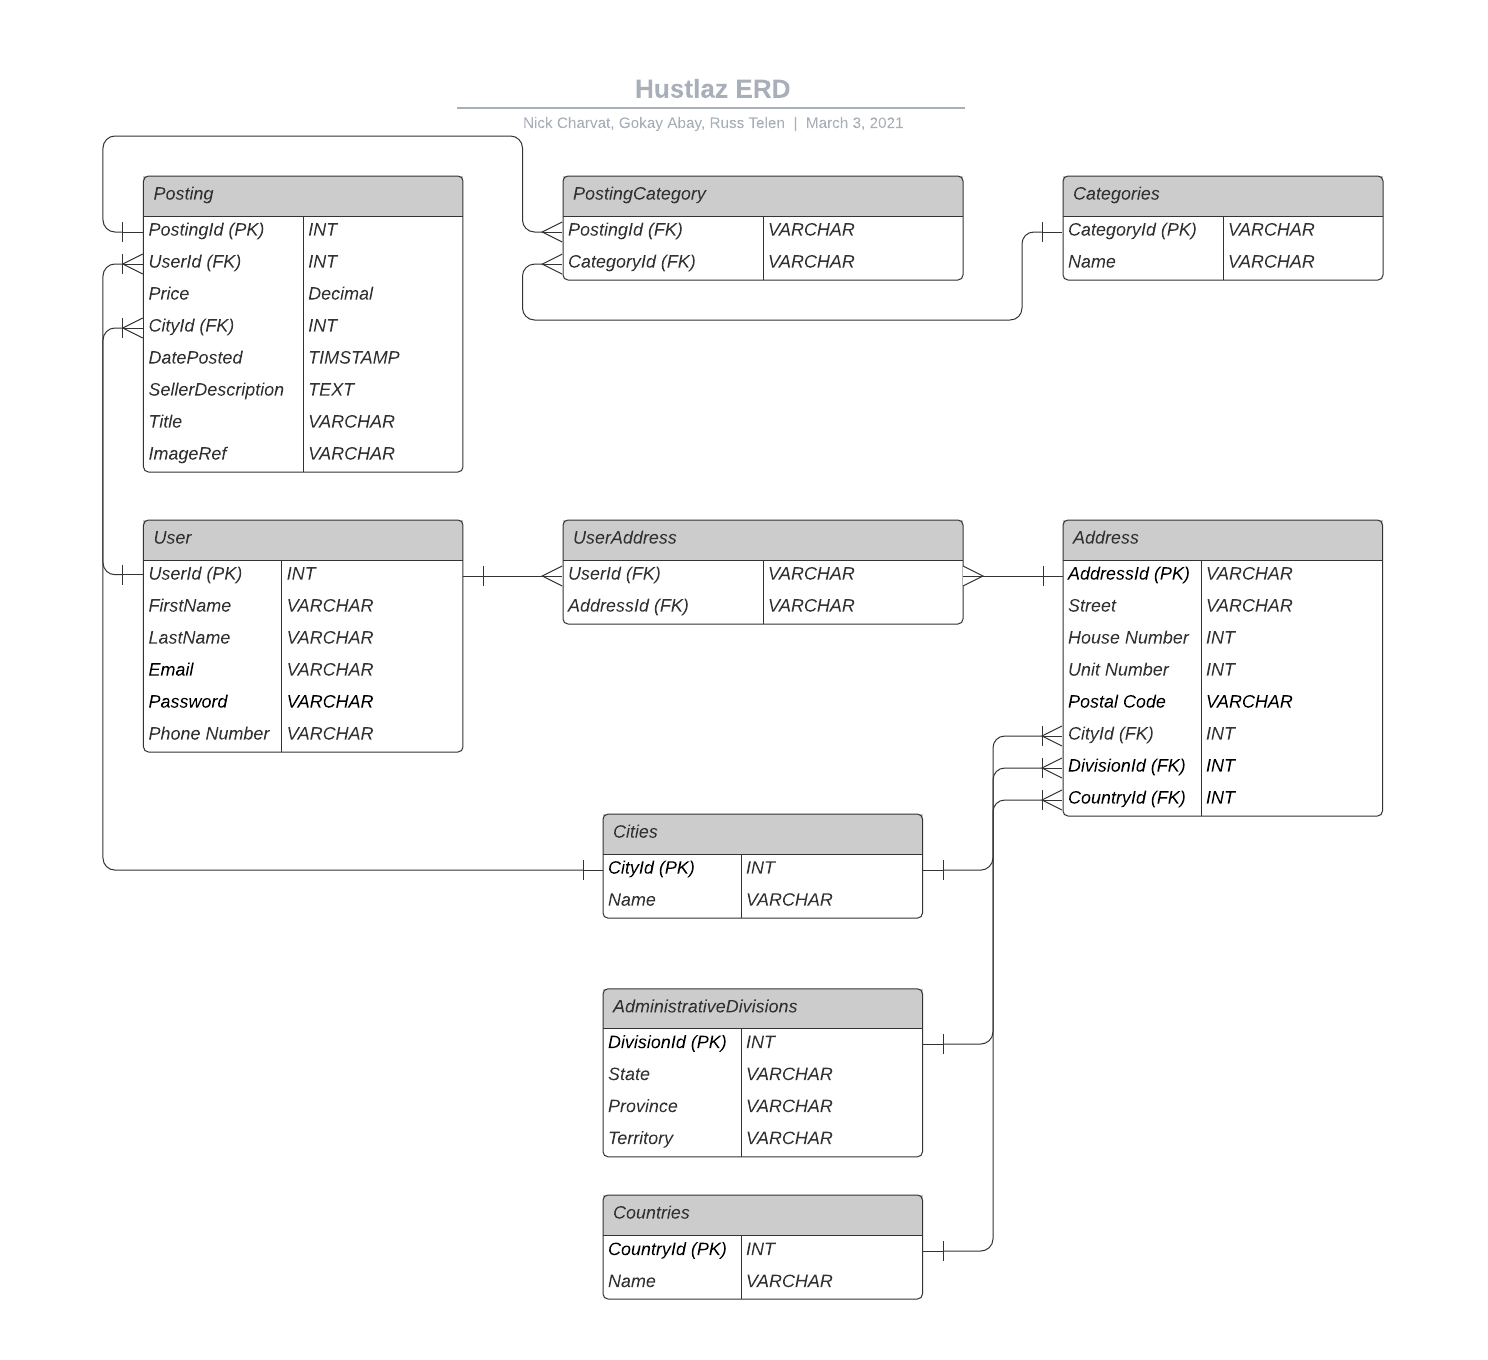
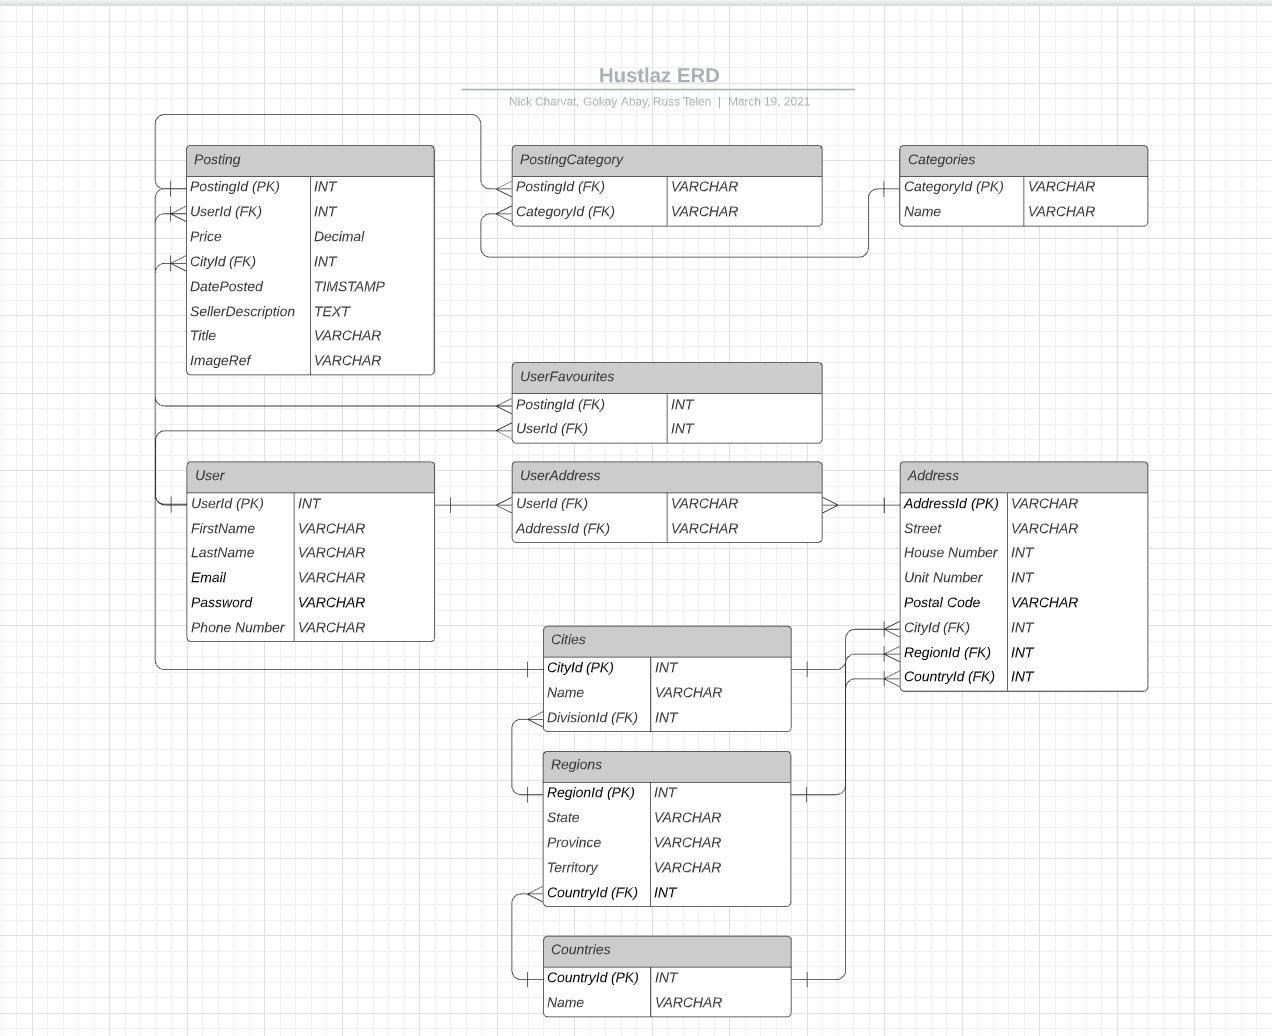
Update ReadME

diff --git a/README.md b/README.md
@@ -1,19 +1,36 @@
-# Hustlaz
+# Hustlaz by Russ, Gokay  and Nick 2021 &copy;
 
-## ToDos - March 3rd
-
-1. App description
-1. List functional and non-functional requirements
-1. Technology stack
-1. Database structure
-1. React folder structure
-1. Mockup
-1. Create issues in kanban board
+## View the app live
+<h2><a href="https://hustlaz.netlify.app/">Hustlaz</a></h2>
 
 ## Description
+    Hustlaz is a buying and selling platform for vintage items. 
 
-Hustlaz is an app where users can browse through a list of postings and purchase items posted by other sellers. Users can also create their own account and add postings of their own that may be viewed and purchased by others.
+## Features
+  - Save items to favorites
+  - Filter products per catgeory or price
+  - Search for products
+  - Create, update and delete products as long as they're authenticated
+  - Users are able to add and update personal information such as name, address and contact info
 
+## Technologies Used
+
+### Front End
+- React
+- Material UI
+- Bootstrap
+
+### Back End
+- NodeJS
+- MySQL
+- RDS
+- S3
+- Cognito
+- API Gateway
+- Lambda
+
+## Preview
+![](./assets/appPreview.png)
 ## Protoypes
 
 ### Overview
@@ -59,41 +76,11 @@ Hustlaz is an app where users can browse through a list of postings and purchase
 - Upload picture files
 - Payment method
 
-## Technologies
-
-### Front End
-
-- React
-- Material UI
-- Material styling (makeStyles)
-
-### Back End
-
-- MySQL/RDS
-- Cognito
-- API Gateway
-- Lambda
-
 ### Misc
 
 - Figma (mockup)
 - LucidChart (ERD)
 
-### React Folder Structure
-
-```
-├── components
-│   ├── Component
-│   │   ├── SubComponent
-│   │   │   ├── SubComponent.test.tsx
-│   │   │   ├── index.tsx
-│   │   ├──  Component.stories.tsx
-│   │   ├──  Component.test.tsx
-│   │   ├──  icon.svg
-│   │   ├──  index.tsx
-│   │   ├──  utils.ts
-│   │   ├──  utils.test.ts
-```
 
 ### Database structure
 
@@ -101,31 +88,5 @@ Hustlaz is an app where users can browse through a list of postings and purchase
 
 <img src="./assets/hustlazERD.png" alt="Hustlaz ERD" />
 
-## NoSQL
 
-```
-db =
-{
-  postings: [
-    {
-      postingId:1
-      desc: fdsfds,
-      categoryId: [1 ,2 ]
-    },
-    {...},{...}
-  ],
-  catgeories: [
-    {
-      categoryId: 1,
-      name: cars
-      postId: [
-        2,4
-      ]
-    },
-    {...},{...}
-  ]
-  users: [
-    {...},{...},{...}
-  ]
-}
-```
+
